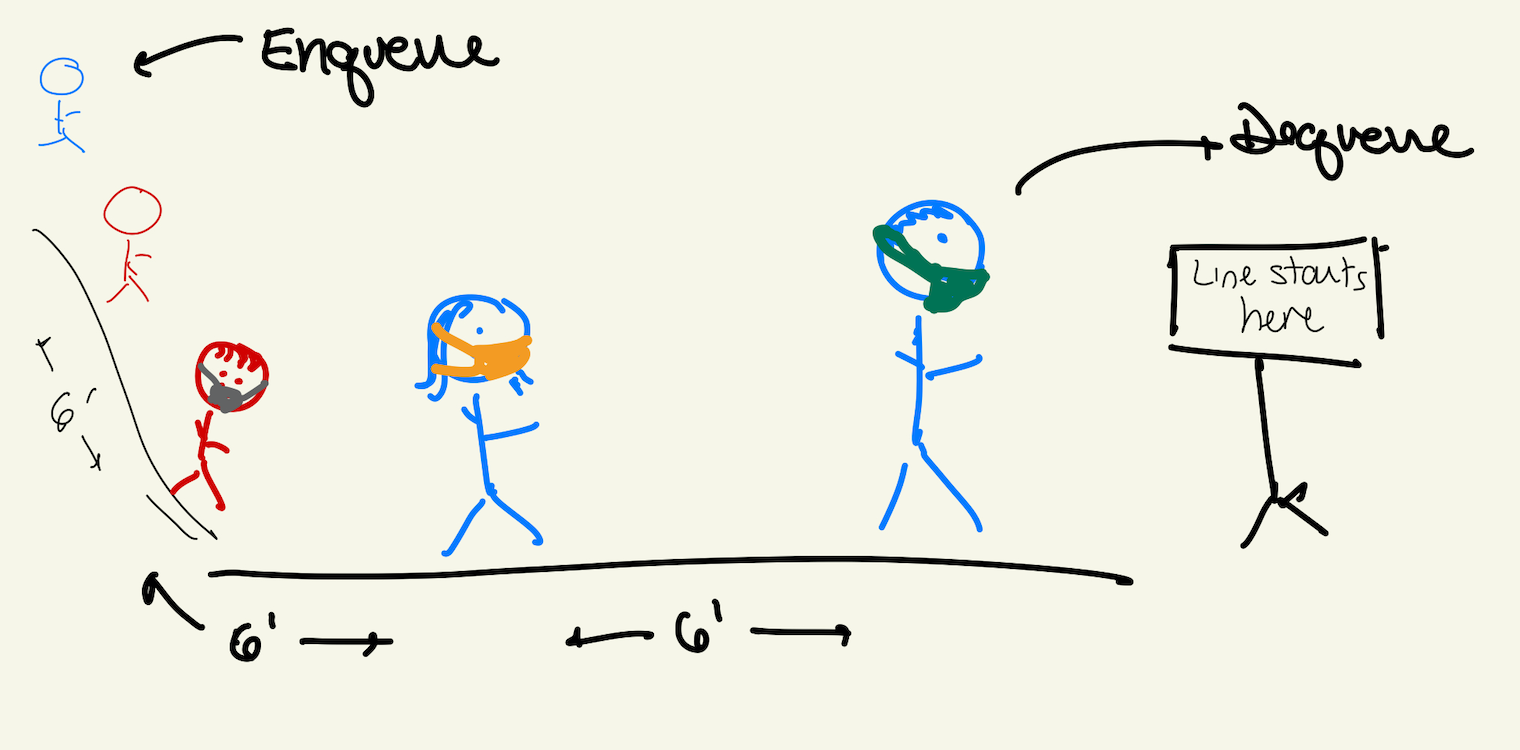
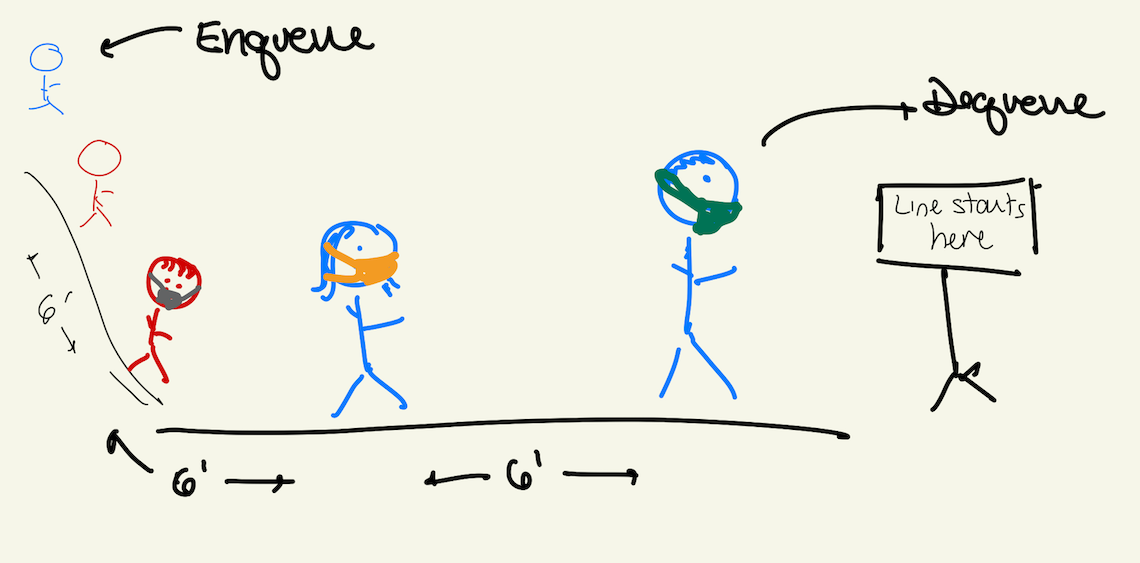
resized figures

diff --git a/README.md b/README.md
@@ -9,6 +9,7 @@ In this lab, you will implement the shortest paths algorithm using a breadth-fir
 In Monday's lecture, we talked at a high level how we can compute the shortest paths from a node `s` to all other nodes in `s`'s connected component.  Briefly, we start at `s` and "explore" the nodes in layers:
 
 ![BFS](figs/BFS.png)
+
 _Image Credit: TM Murali, Virginia Tech_
 
 We need to explore the nodes in a particular way in order for this algorithm to compute the shortest paths.  We will store the nodes to explore using a [_queue_](https://en.wikipedia.org/wiki/Queue_(abstract_data_type)) data structure.
@@ -16,6 +17,7 @@ We need to explore the nodes in a particular way in order for this algorithm to 
 Queues are a First-In First-Out (FIFO) data structure; you add elements to the end of the queue ("enqueue") and you remove elements at the front of the queue ("dequeue"):
 
 ![queue](https://upload.wikimedia.org/wikipedia/commons/thumb/5/52/Data_Queue.svg/450px-Data_Queue.svg.png)
+
 _Wikipedia_
 
 Another way to think about a queue is as a line of people.  When you join the line, you join at the end; when someone leaves the line, the first get to go.
@@ -60,23 +62,25 @@ ShortestPaths(G,s):
 
 ## :star: Task B: Implement the Shortest Paths Algorithm
 
-Implement the shortest paths algorithm and post the graph to GraphSpace.  The lab_utils.py file contains a function to get two graphs, one from `lab` and one from `lecture`. It returns all the graph data structures we have learned about so far:
+Implement the shortest paths algorithm and post the graph to GraphSpace.  The `lab_utils.py` file contains a function to get two graphs, one from [`lab`](http://graphspace.org/graphs/29432?user_layout=13823) and one from [`lecture`](http://graphspace.org/graphs/29433) - click the links to view the un-annotated GraphSpace graphs.
+
+The function in `lab_utils.py` returns all the graph data structures we have learned about so far.  At the top of your code, add
 
 ```
-## put this line where you import modules
-import lab
-
-...
-
-# when you're ready to get the graph (e.g., in your main() function)...
-node_list, edge_list, adj_list, adj_mat = Lab_utils.get_graph('lab') ## or `lecture'
+import lab_utils
 ```
 
-Make your own Python file and get the graph from `lab` (which is smaller than the graph from `lecture`).  Write a `shortest_paths()` function that takes a graph (from the data structures you choose) and a source node `s` and returns a dictionary of distances of all nodes to `s`.
+and when you're ready to get a graph (e.g. in your `main()` function), type
+
+```
+node_list, edge_list, adj_list, adj_mat = lab_utils.get_graph('lab') ## or `lecture'
+```
+
+Create your own Python `run.py` file and write code to get the `lab` graph (which is a single connected component).  Then, write a `shortest_paths()` function that takes a graph (from the data structures you choose) and a source node (which can be `A` for both graphs) and returns a dictionary of distances of all nodes to `A`.  
 
 :question: How should you represent infinity?  You can either use `float('inf')` or use a very large integer (which needs to be larger than the number of edges in the graph).
 
-When you are done, post the graph and add the distances from `s` in each node's label to confirm that your code is working properly.  You can use any of your old code from Lab 2 or the previous programming assignment.
+When you are done, add code to post the graph to GraphSpace. Include the distances from `s` in each node's label to confirm that your code is working properly.  You can use any of your old code from Lab 2 or the previous programming assignment.
 
 ## :star: Task C: Color Nodes by Distance
 
